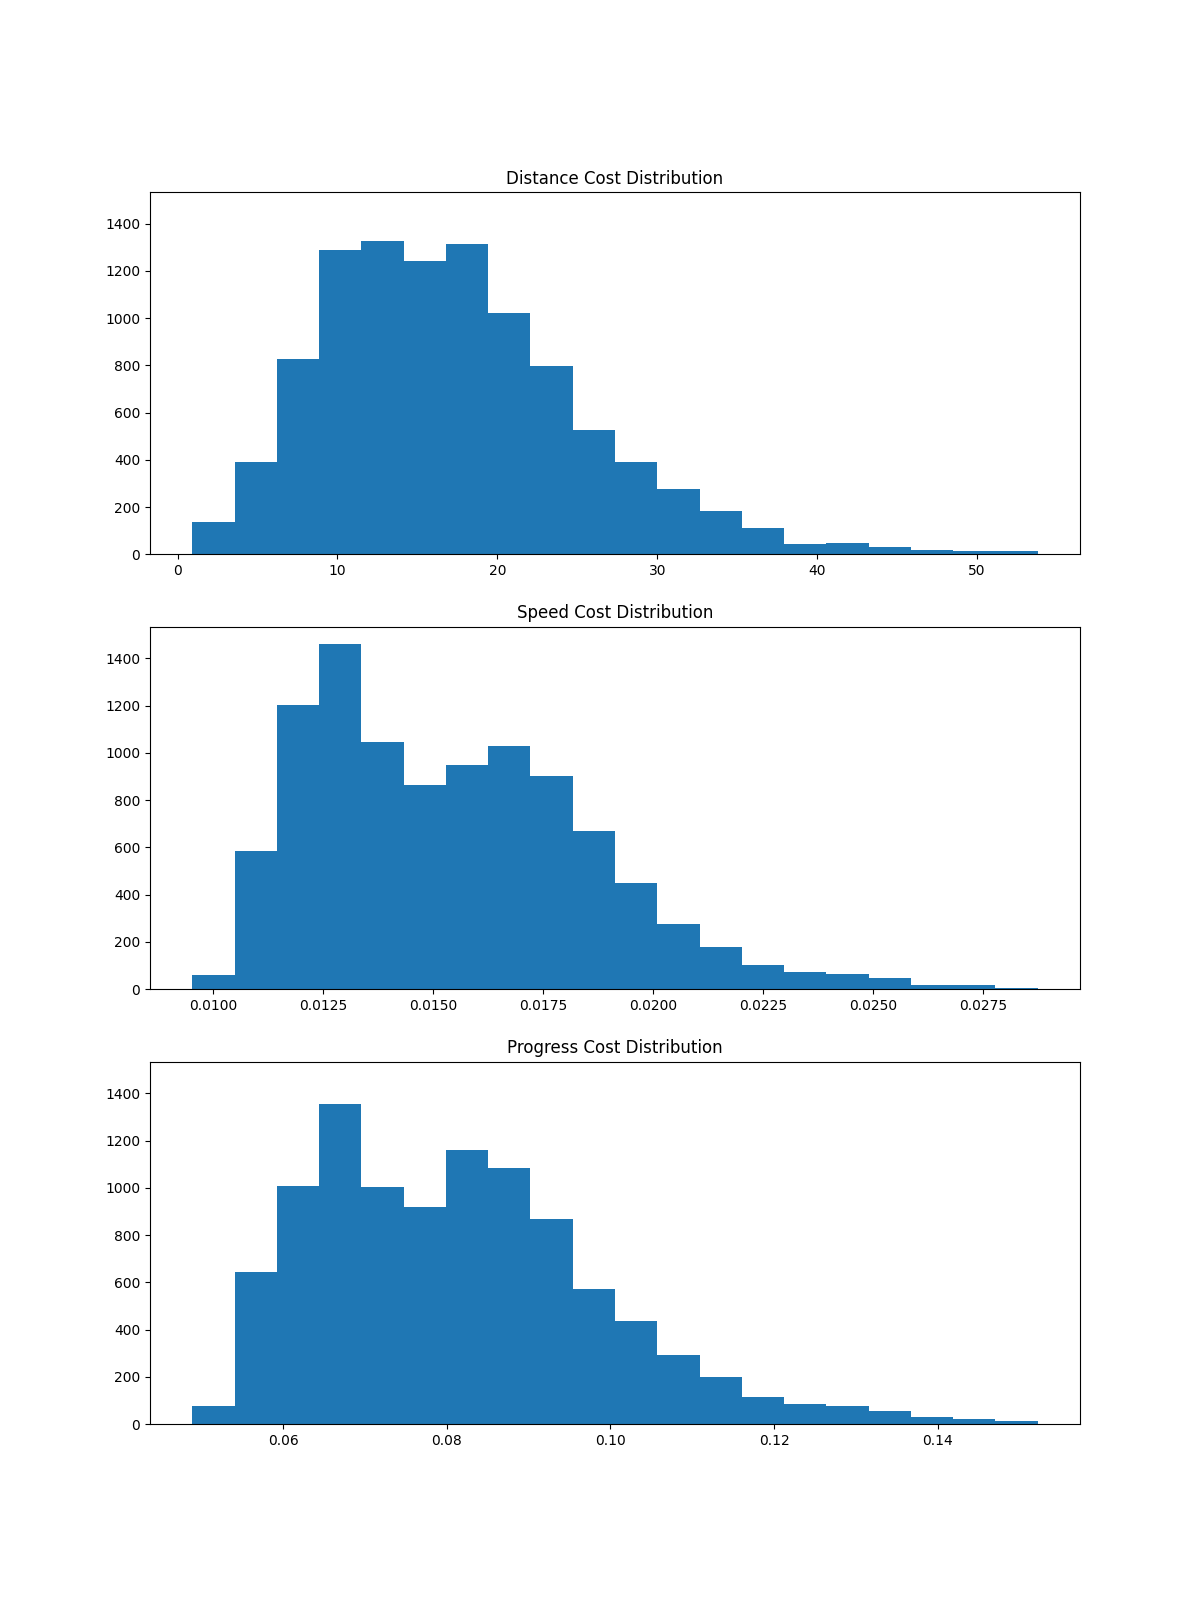
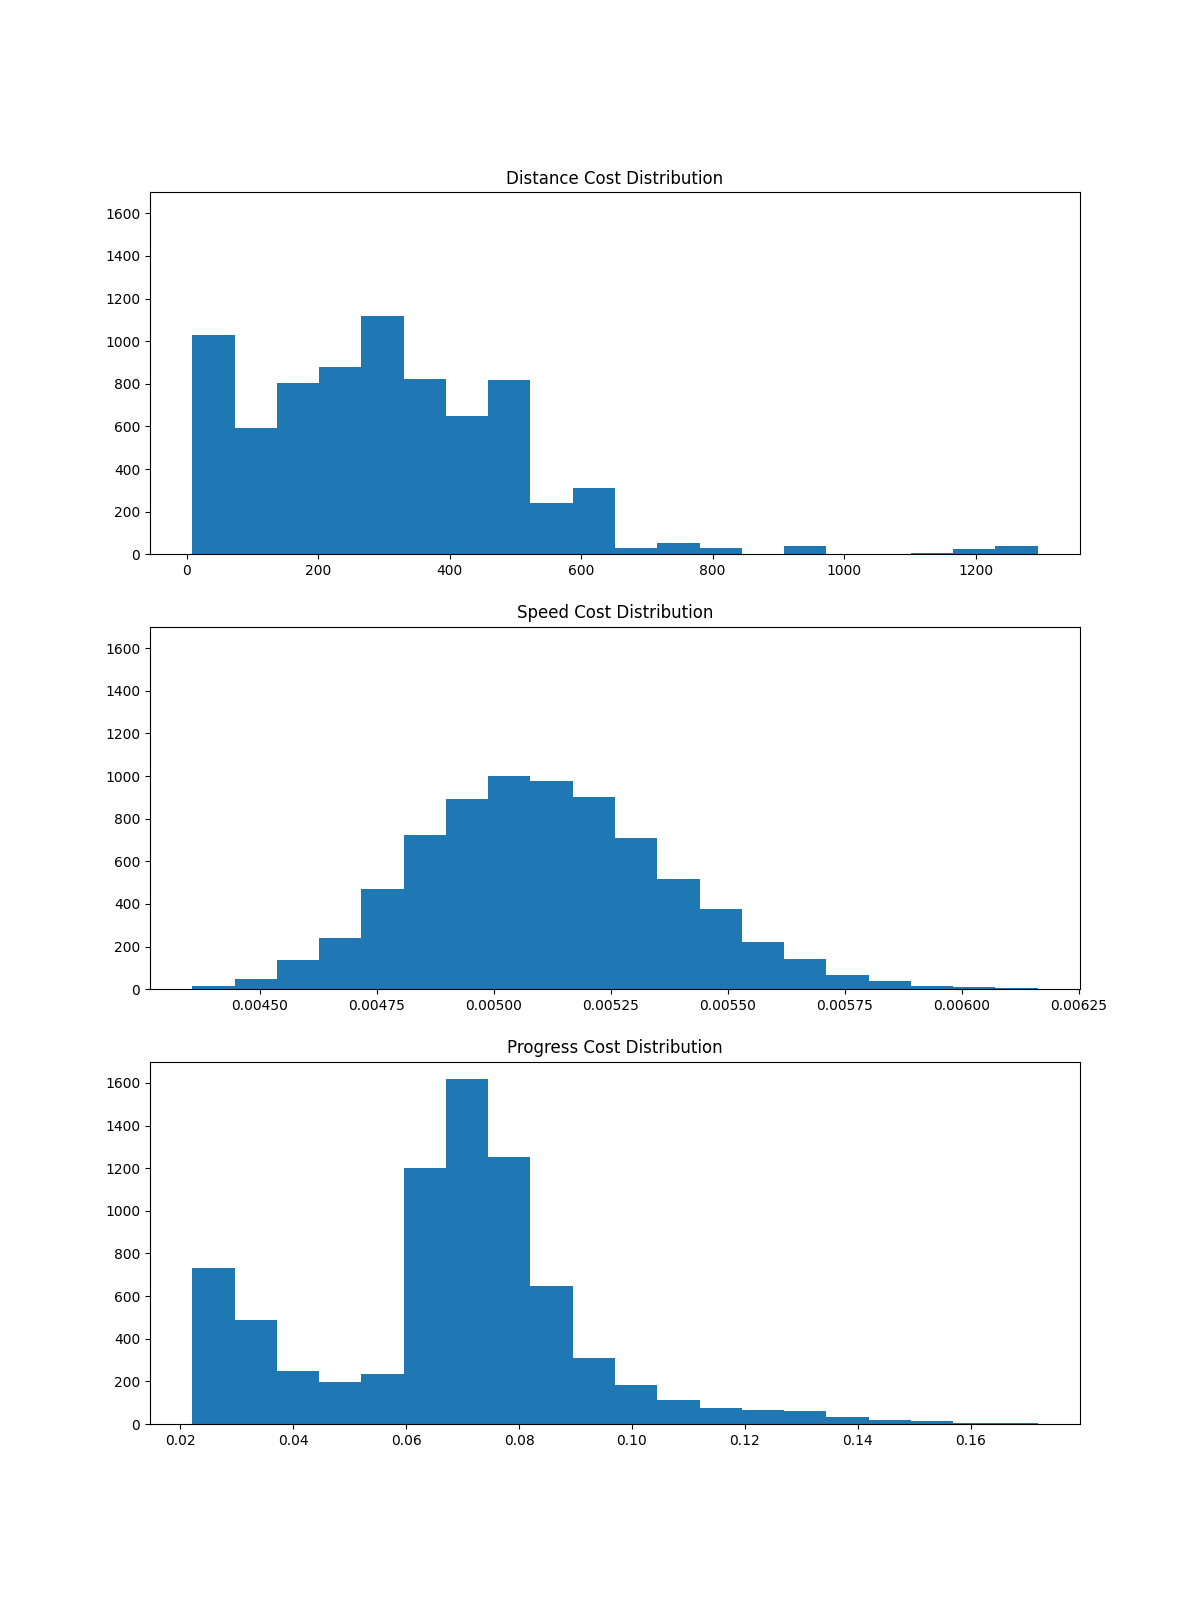
gaussian random walk

diff --git a/generate_data.py b/generate_data.py
@@ -1,0 +1,134 @@
+import numpy as np
+import math
+import pandas as pd
+from car import Car
+from car_controller import CarController
+from track import Track
+from constants import *
+import matplotlib.pyplot as plt
+
+
+track = Track()
+car = Car(track)
+
+
+
+
+def generate_random():
+
+    nn_inputs = []
+    nn_results = []
+
+    track = Track()
+    car = Car(track)
+    number_of_initial_states = 100
+    number_of_steps_per_trajectory = 1000
+
+    car.state = [0,0,0,0,0,0,0]
+
+    #Position
+    mu, sigma = 100, 50 # mean and standard deviation
+    s_x_dist = np.random.normal(mu, sigma, number_of_initial_states) 
+    s_y_dist = np.random.normal(mu, sigma, number_of_initial_states)
+
+    #delta
+    mu, sigma = 1, 0.2 # mean and standard deviation
+    delta_dist = np.random.normal(mu, sigma, number_of_initial_states) 
+
+    #velocity
+    mu, sigma = 10, 5 # mean and standard deviation
+    v_dist = np.random.normal(mu, sigma, number_of_initial_states) 
+
+    #epsylon
+    mu, sigma = 1, 0.1 # mean and standard deviation
+    epsylon_dist = np.random.normal(mu, sigma, number_of_initial_states)
+    epsylon_dot_dist = np.random.normal(mu, sigma, number_of_initial_states)
+
+    #beta
+    mu, sigma = 1, 0.1 # mean and standard deviation
+    beta_dist = np.random.normal(mu, sigma, number_of_initial_states)
+    for i in range(number_of_initial_states): 
+        #Set random initial state
+        car.state = [
+            s_x_dist[i],
+            s_y_dist[i],
+            delta_dist[i],
+            v_dist[i],
+            epsylon_dist[i],
+            epsylon_dot_dist[i],
+            beta_dist[i],
+        ]
+
+        mu, sigma = 0, 0.5 # mean and standard deviation
+        u0_dist = np.random.normal(mu, sigma, number_of_steps_per_trajectory)
+        mu, sigma = 0, 0.1 # mean and standard deviation
+        u1_dist = np.random.normal(mu, sigma, number_of_steps_per_trajectory)
+
+        for j in range(number_of_steps_per_trajectory):
+            control = [u0_dist[j], u1_dist[j]]
+            nn_input = np.append(car.state.copy(), control)
+            nn_inputs.append(nn_input)
+
+            car.step(control)
+
+            nn_result = car.state
+            nn_results.append(car.state)
+
+
+    df = pd.DataFrame(nn_inputs)
+    df.to_csv('NeuralNetworkPredictor/data/train/random_inputs.csv', index=False, float_format='%.3f')
+    df = pd.DataFrame(nn_results)
+    df.to_csv('NeuralNetworkPredictor/data/train/random_results.csv', index=False, float_format='%.3f')
+
+generate_random()
+
+def generate_every_possibility():
+    car.state = [0,0,0,0,0,0,0]
+
+    nn_inputs = []
+    nn_results = []
+
+    for i in range(0, 10):
+        car.state = [i,0,0,0,0,0,0]
+        for j in range(100):
+            for k in range(100):
+                control = [0.01 * j, 0.01 * k]
+                #The NN input is an array containing the current state and the control
+                nn_input = np.append(car.state.copy(), control)
+                nn_inputs.append(nn_input)
+
+                car.step(control)
+
+                #The nn output is the next state
+                nn_result = car.state
+                nn_results.append(car.state)
+
+
+    df = pd.DataFrame(nn_inputs)
+    df.to_csv('NeuralNetworkPredictor/data/train/inputs.csv', index=False, float_format='%.3f')
+    df = pd.DataFrame(nn_results)
+    df.to_csv('NeuralNetworkPredictor/data/train/results.csv', index=False, float_format='%.3f')
+
+
+
+    #Test Data
+
+    for i in range(0, 10):
+        car.state = [i,0,0,0,0,0,0]
+        for j in range(5):
+            for k in range(5):
+                control = [0.01 * j, 0.01 * k]
+                #The NN input is an array containing the current state and the control
+                nn_input = np.append(car.state.copy(), control)
+                nn_inputs.append(nn_input)
+
+                car.step(control)
+
+                #The nn output is the next state
+                nn_result = car.state
+                nn_results.append(car.state)
+    df = pd.DataFrame(nn_inputs)
+    df.to_csv('NeuralNetworkPredictor/data/test/inputs.csv', index=False, float_format='%.3f')
+    df = pd.DataFrame(nn_results)
+    df.to_csv('NeuralNetworkPredictor/data/test/results.csv', index=False, float_format='%.3f')
+

diff --git a/car_controller.py b/car_controller.py
@@ -27,10 +27,12 @@ import math
 from scipy.integrate import odeint
 
 #Covariance Matrix for the input distribution
-COVARIANCE = [[0.4, 0], [0, 0.2]] 
+INITIAL_COVARIANCE = [[0.4, 0], [0, 0.0]] 
+
+STEP_COVARIANCE = [[0.3,0],[0,0]]
 
 #Number of trajectories that are calculated for every step
-NUMBER_OF_TRAJECTORIES = 50
+NUMBER_OF_TRAJECTORIES = 100
 
 #With of the race track (ToDo)
 DIST_TOLLERANCE = 4 
@@ -141,13 +143,22 @@ class CarController:
     Returns a gaussian distribution around the last control input
     '''
     def sample_control_inputs(self, last_control_input):
-        x, y = np.random.multivariate_normal(last_control_input, COVARIANCE, NUMBER_OF_TRAJECTORIES).T
-        # plt.plot(x, y, 'x')
-        # plt.savefig('input_distribution.png')
+        initial_steering, initial_acceleration = np.random.multivariate_normal(last_control_input, INITIAL_COVARIANCE, NUMBER_OF_TRAJECTORIES).T
 
-        control_input_sequences = [0]*len(x)
-        for i in range(len(x)):
-            control_input_sequences[i] = 20*[[round(x[i],3), round(y[i], 3)]]
+        control_input_sequences = [0]*len(initial_steering)
+        for i in range(len(initial_steering)):
+            last_control_input = [initial_steering[i], initial_acceleration[i]]
+            control_input_sequences[i] = []
+            next_control_input = [round(initial_steering[i],3), round(initial_acceleration[i], 3)] 
+            # next_control_input = [0, 0]
+            for j in range(20):
+
+                step_steering, step_acceleration = np.random.multivariate_normal(last_control_input, STEP_COVARIANCE).T
+                
+                control_input_sequences[i].append([step_steering, step_acceleration])
+                next_control_input[0] = step_steering
+                next_control_input[1] = step_acceleration
+
         return control_input_sequences
 
 
@@ -163,7 +174,7 @@ class CarController:
         waypoint_modulus.extend(waypoint_modulus[:30])
 
         closest_to_car_position = self.track.get_closest_index(self.state[:2])
-        waypoint_modulus = waypoint_modulus[closest_to_car_position: closest_to_car_position+ 30]
+        waypoint_modulus = waypoint_modulus[closest_to_car_position: closest_to_car_position+ 50]
 
         track = geom.LineString(waypoint_modulus)
 
@@ -172,8 +183,8 @@ class CarController:
         progress_cost = 0
 
         distance_cost_weight = 1
-        speed_cost_weight = 100
-        progress_cost_weight =100
+        speed_cost_weight = 400
+        progress_cost_weight =500
 
         number_of_critical_states = 10
 
@@ -310,7 +321,7 @@ class CarController:
             t_x.append(state[0])
             t_y.append(state[1])
 
-        plt.scatter(t_x, t_y, c='#D94496', label="Weighted Average Solution")
+        plt.scatter(t_x, t_y, c='#D94496', label="Static control")
         plt.legend(  fancybox=True, shadow=True, loc="best")
 
         

diff --git a/multi_step_mpc.py b/multi_step_mpc.py
@@ -14,7 +14,7 @@ waypoint_index = 1
 last_control_input = [0,0]
 
 
-for i in range(200):
+for i in range(150):
 
     next_control_input = car_controller.control_step()
     chosen_trajectory = car_controller.simulate_trajectory([next_control_input] *20)
@@ -22,7 +22,7 @@ for i in range(200):
     # print("Next control", next_control_input)
 
     # Comment this out for speedup
-    car_controller.draw_simulated_history(waypoint_index,chosen_trajectory)
+    # car_controller.draw_simulated_history(waypoint_index,chosen_trajectory)
 
     car.step(next_control_input)
     car_controller.set_state(car.state)

diff --git a/car.py b/car.py
@@ -22,7 +22,7 @@ from scipy.integrate import odeint
 Represents the "real car", calculated by the l2race server
 '''
 class Car:
-    def __init__(self, track):
+    def __init__(self,track = []):
 
         initial_position = track.initial_position
 

diff --git a/track.py b/track.py
@@ -4,7 +4,7 @@ import numpy as np
 from constants import *
 
 #Scale of the race track
-M_TO_PIXEL = 0.2
+M_TO_PIXEL = 0.1
 
 def squared_distance(p1, p2):
     squared_distance = abs(p1[0] - p2[0]) ** 2 + abs(p1[1] - p2[1]) ** 2
